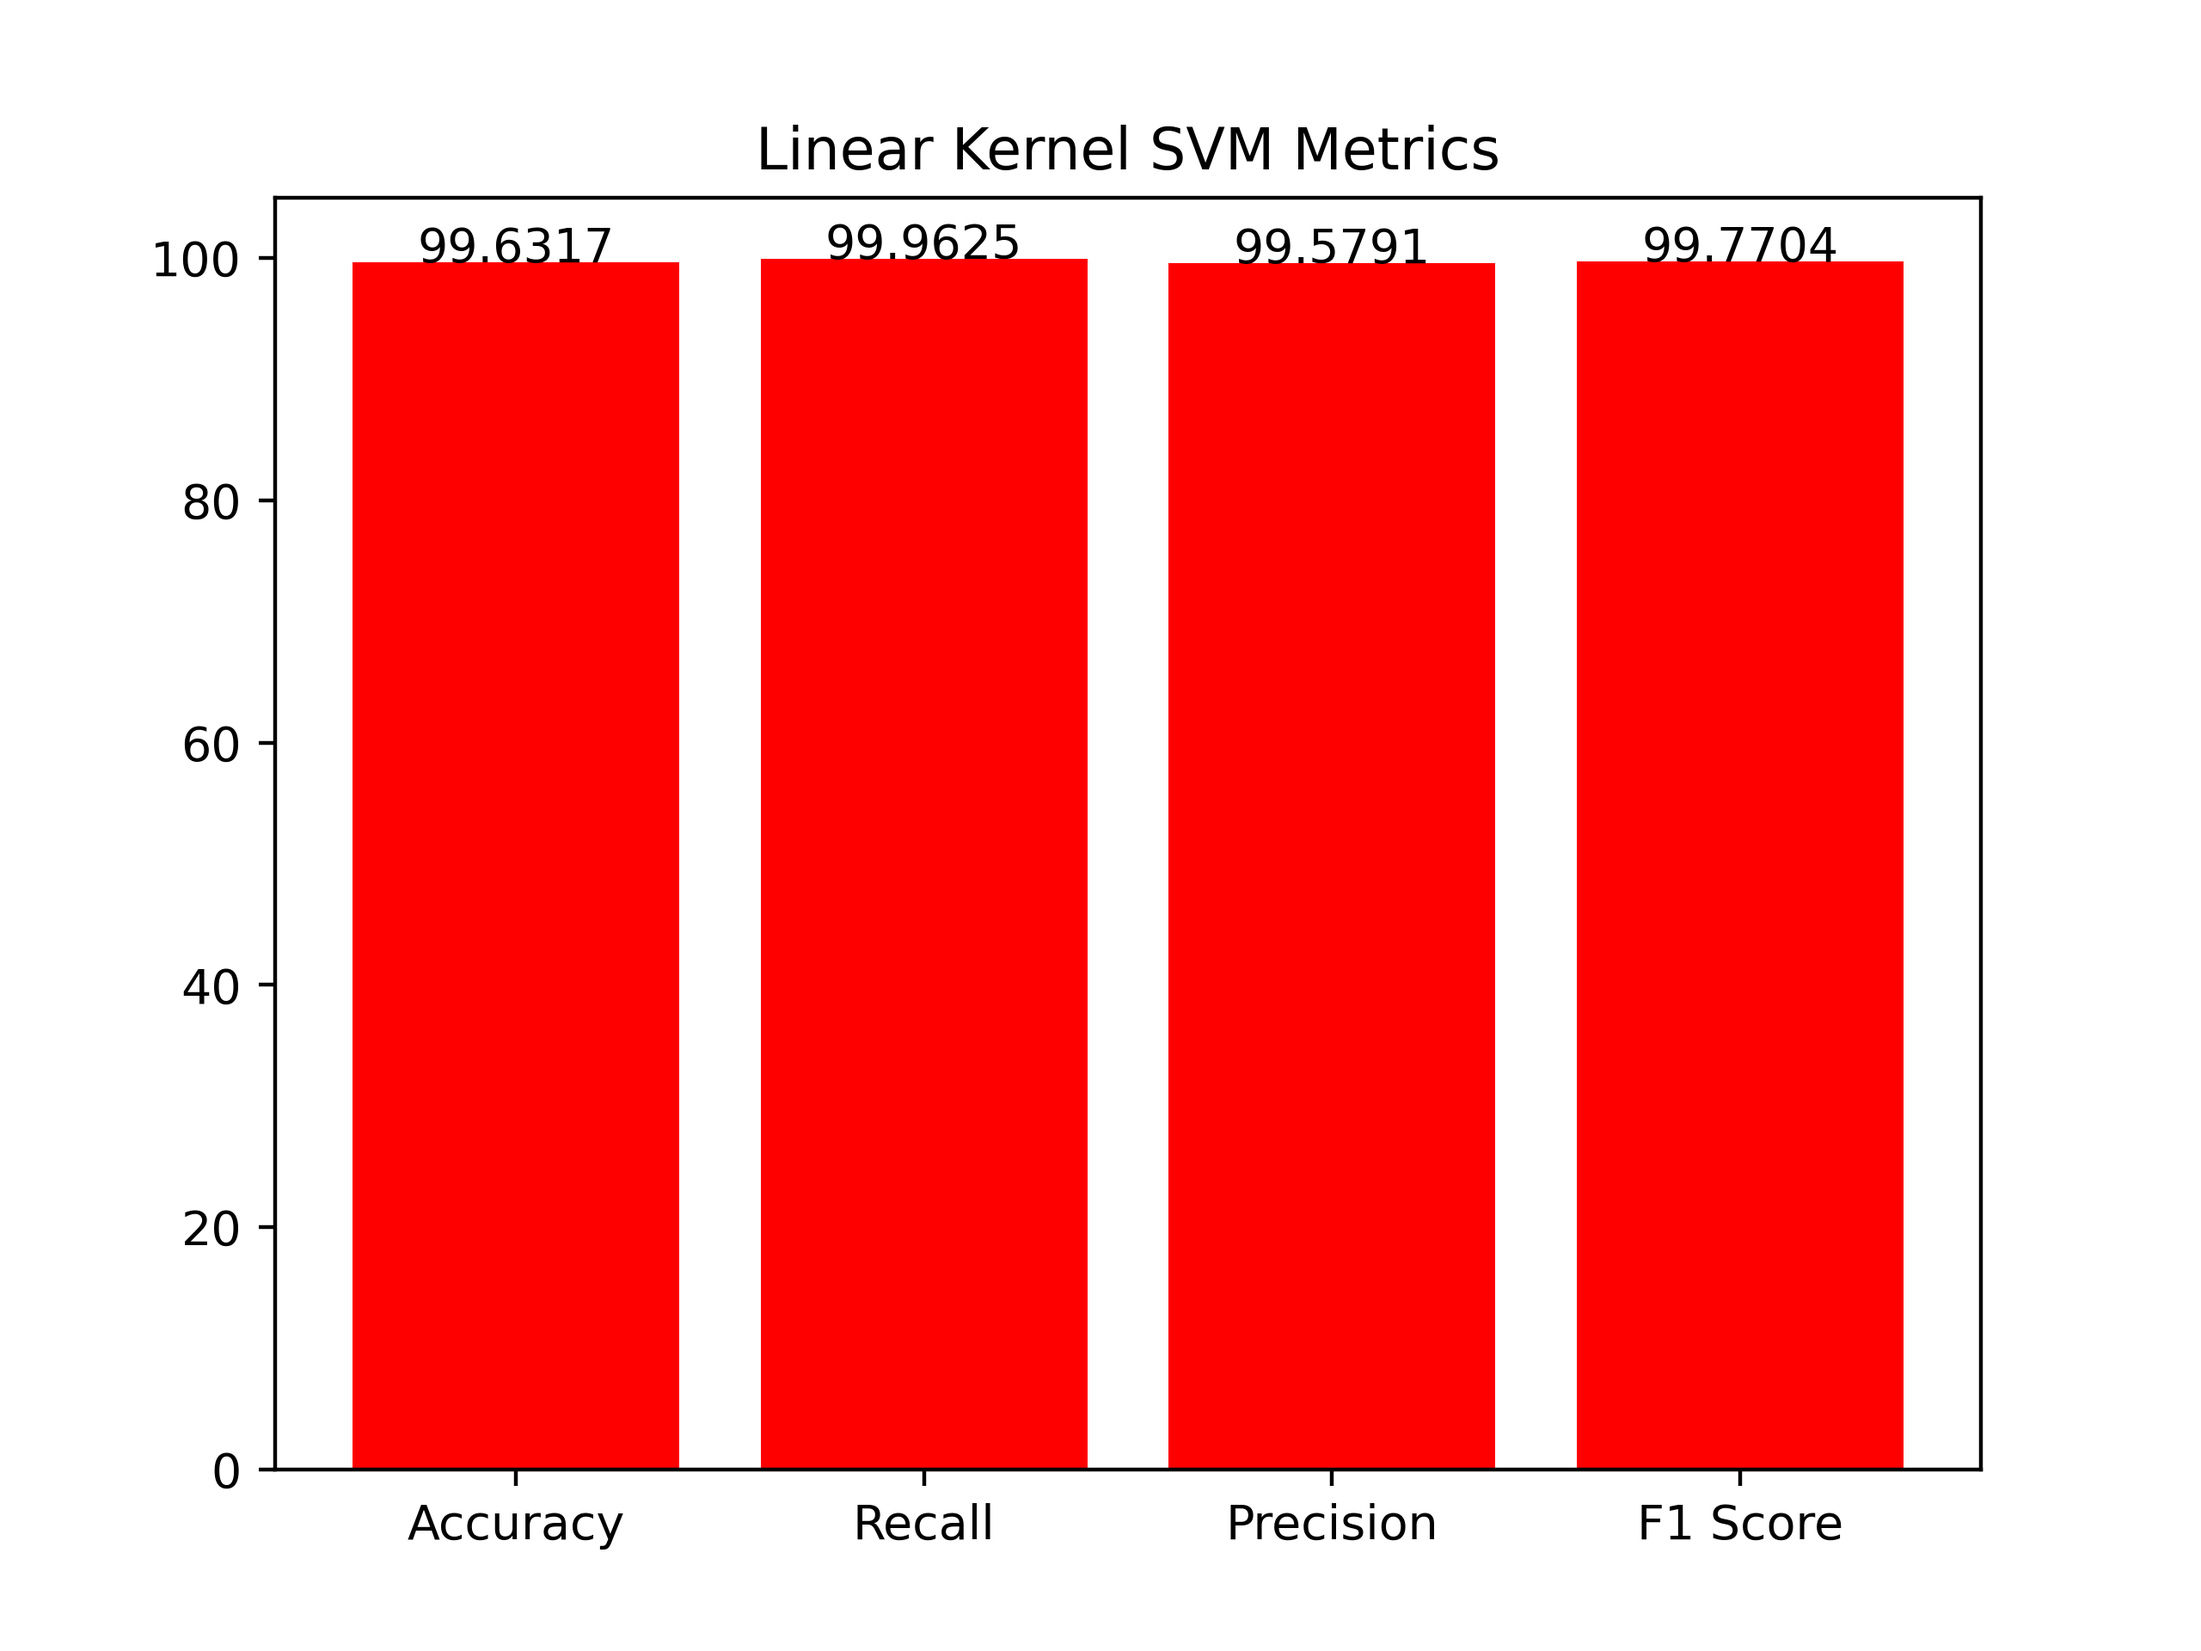
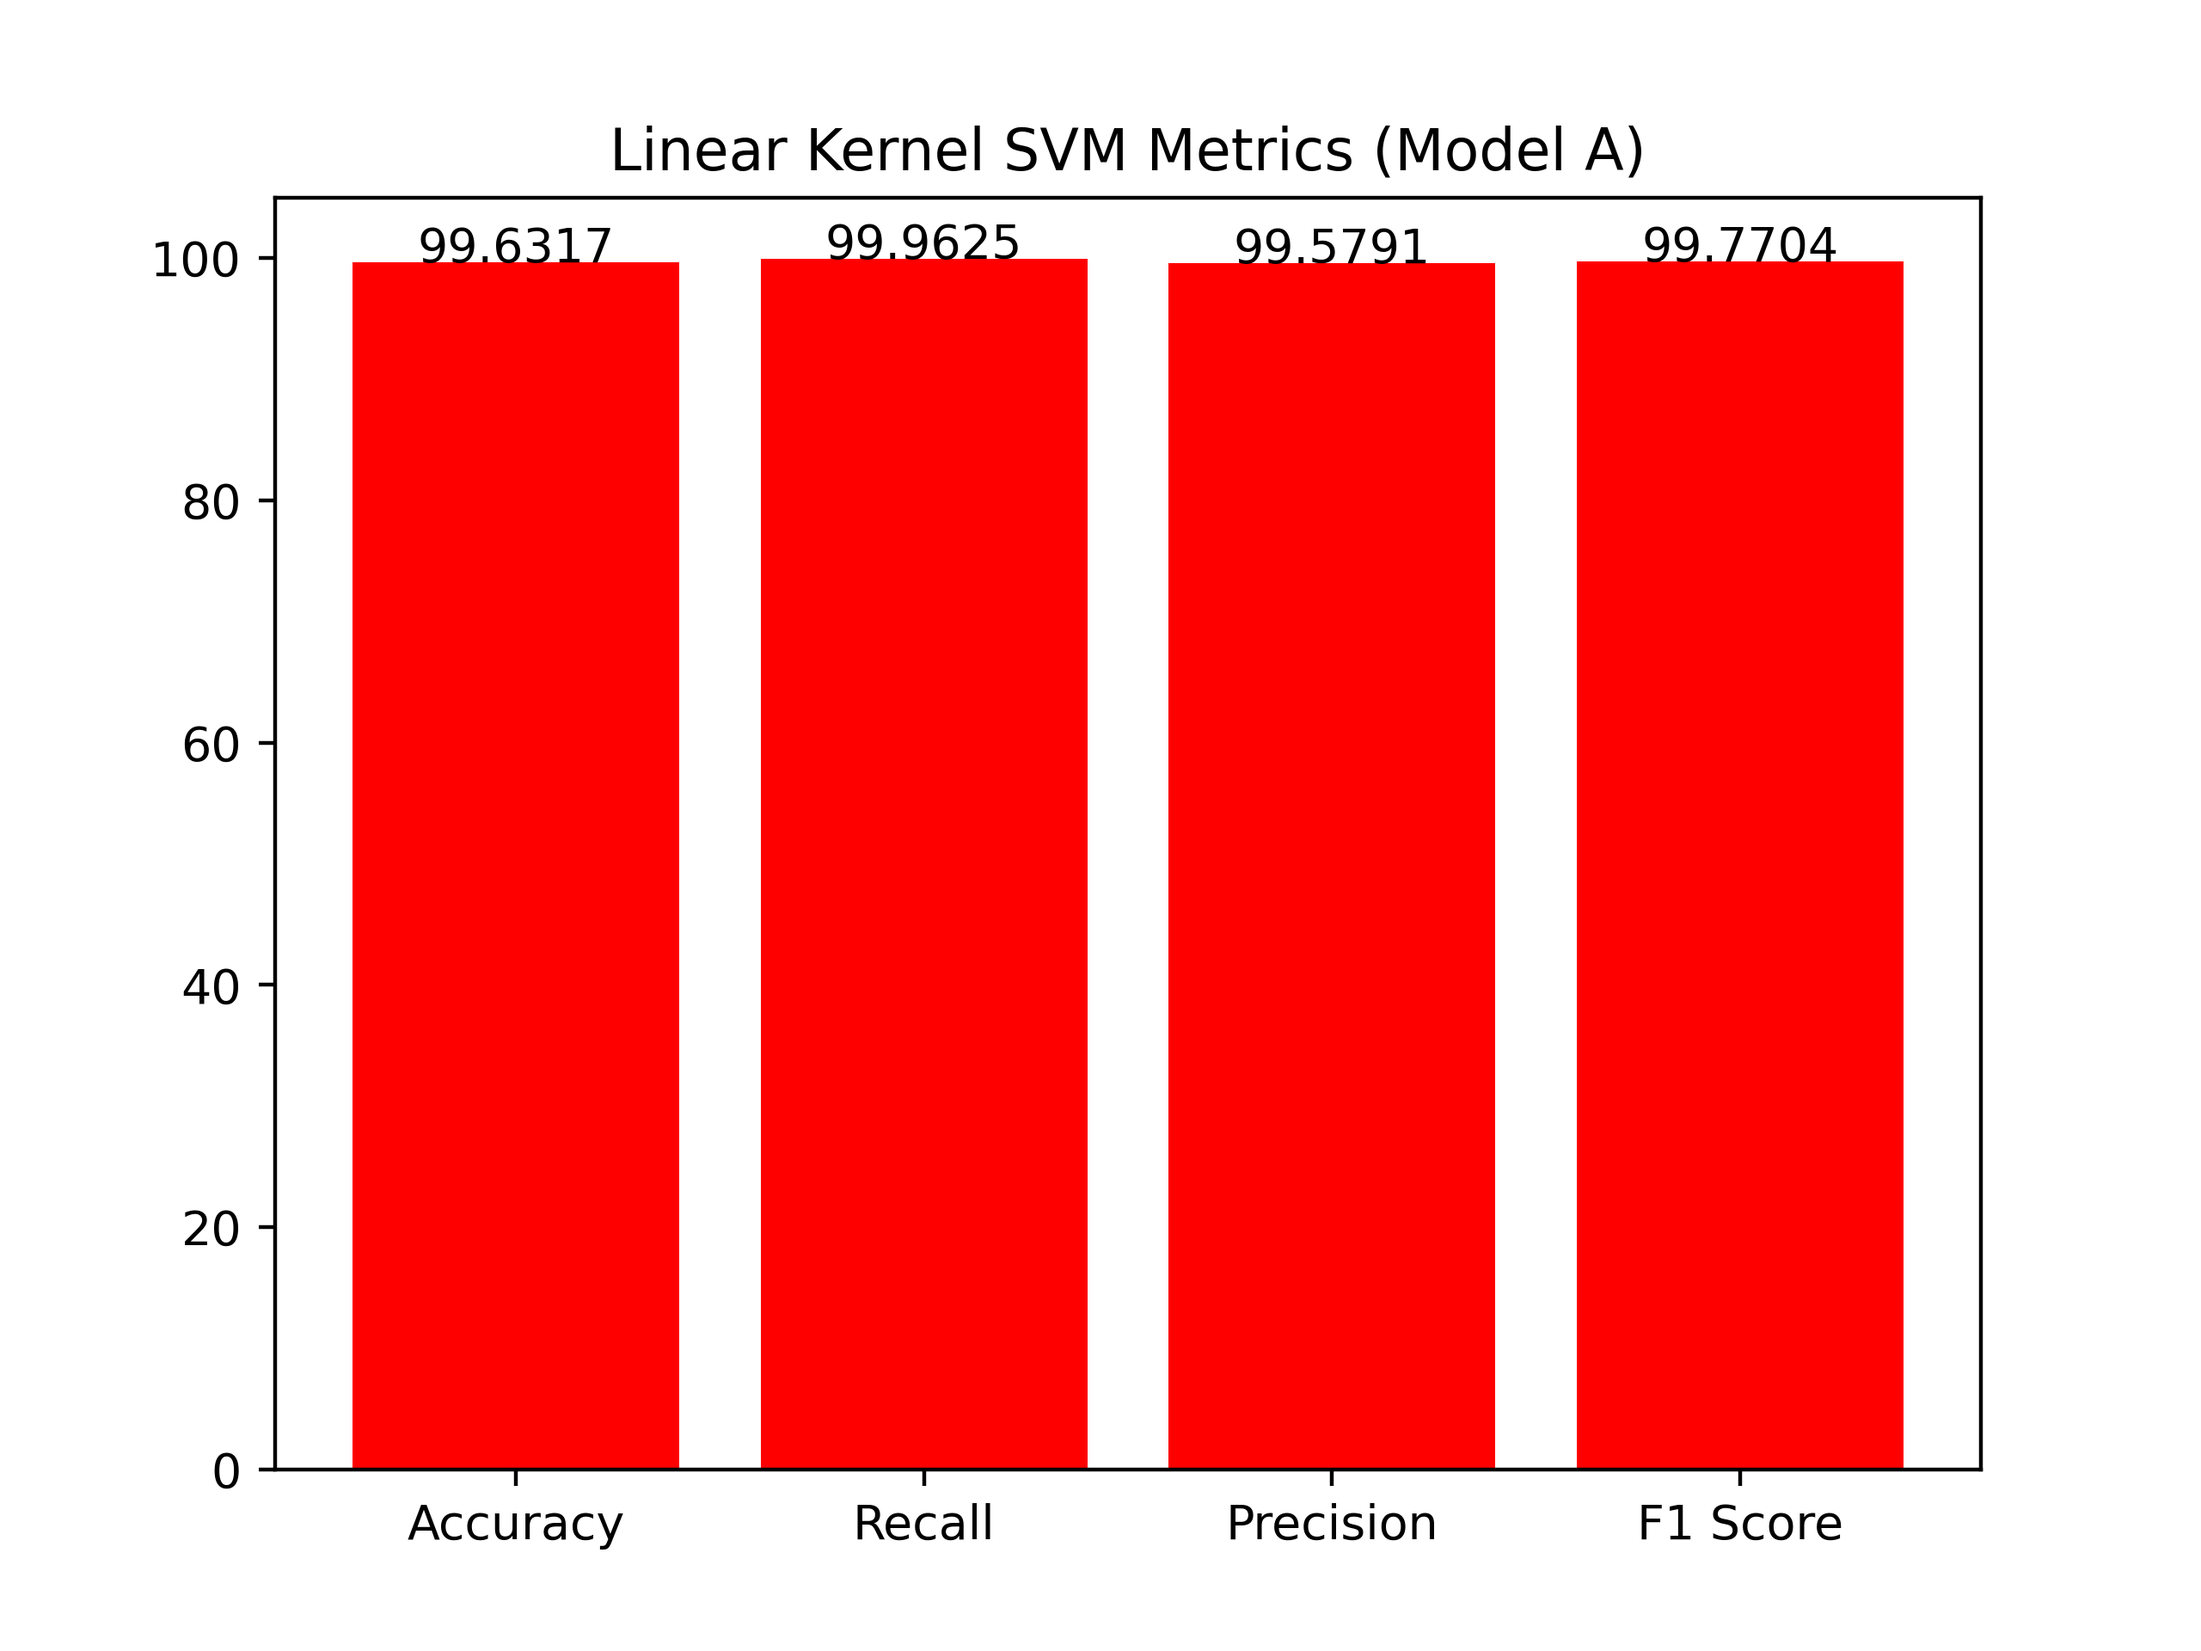
add header to graph

Changed region(s): [[0.2812, 0.0625, 0.75, 0.125]]

diff --git a/Metrics/Graphs/classifierGraphs.py b/Metrics/Graphs/classifierGraphs.py
@@ -36,7 +36,7 @@ values_lk = list(linear_kernel_data.values())
 x_lk = list(linear_kernel_data.keys())
 y_lk = [round (value * 100, 4) for value in values_lk]
 
-create_simple_bar_graph(x=x_lk, y=y_lk, value_labels=True, colour="Red", title="Linear Kernel SVM Metrics", save_path="Metrics/Graphs/pngs/linearKernelSVMMetrics.png", dpi=400)
+create_simple_bar_graph(x=x_lk, y=y_lk, value_labels=True, colour="Red", title="Linear Kernel SVM Metrics (Model A)", save_path="Metrics/Graphs/pngs/linearKernelSVMMetrics.png", dpi=400)
 
 # Poly Kernel SVM
 
